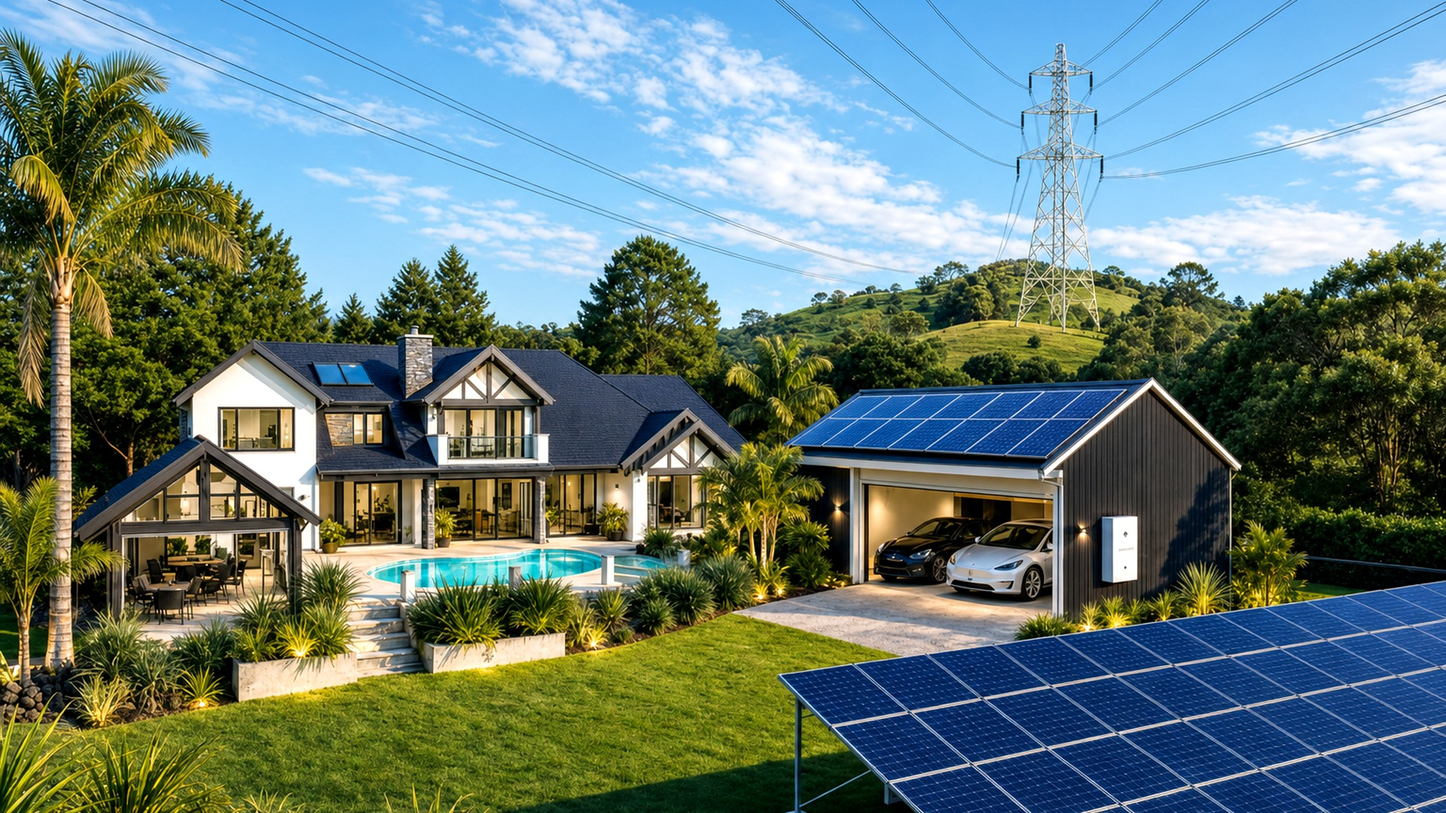
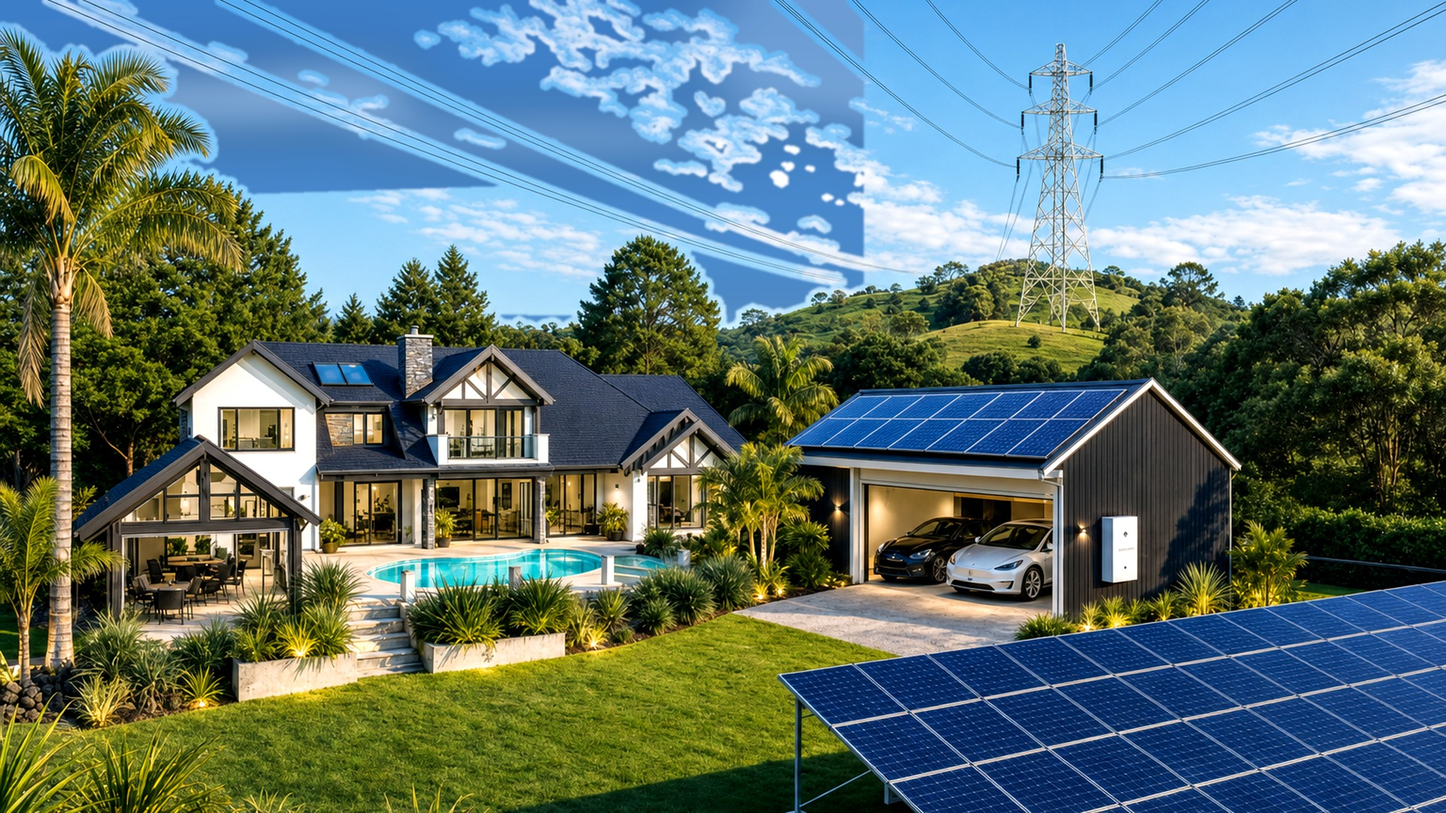
Fix solar dashboard v14 sky replace and restore weather-driven backgrounds.
The v14 keep-mask used a scalar boolean that wiped all sky pixels; restore weather/sun background selection, rebuild distinct weather JPGs, rename Contact card, align docs with locked master + no flow lines, and deploy with cache-bust 20260602a.

Changed region(s): [[0.0, 0.0, 0.625, 0.3972], [0.3438, 0.3667, 0.4062, 0.3972], [0.2188, 0.4583, 0.25, 0.4889]]

diff --git a/home-assistant/solar-dashboard/scripts/build_v4_backgrounds.py b/home-assistant/solar-dashboard/scripts/build_v4_backgrounds.py
@@ -673,7 +673,7 @@ def _build_sky_keep_mask(master: Image.Image) -> np.ndarray:
 
     for poly in (_HOUSE_ROOF_EXCLUDE, _LEFT_TREES_EXCLUDE):
         keep[_rasterize_polygons_keep(w, h, [poly])] = True
-    keep[h >= _GROUND_EXCLUDE_Y, :] = True
+    keep[_GROUND_EXCLUDE_Y:, :] = True
 
     bx0, by0, bx1, by1 = _V14_PYLON_KEEP_BOX
     keep[by0:by1, bx0:bx1] = True
@@ -687,7 +687,7 @@ def _build_sky_keep_mask(master: Image.Image) -> np.ndarray:
     keep = sky_u8 == 0
     keep[protect] = True
     keep[by0:by1, bx0:bx1] = True
-    keep[h >= _GROUND_EXCLUDE_Y, :] = True
+    keep[_GROUND_EXCLUDE_Y:, :] = True
     for poly in (_HOUSE_ROOF_EXCLUDE, _LEFT_TREES_EXCLUDE):
         keep[_rasterize_polygons_keep(w, h, [poly])] = True
 

diff --git a/home-assistant/solar-dashboard/docs/332-three-mile-bush-build-spec.md b/home-assistant/solar-dashboard/docs/332-three-mile-bush-build-spec.md
@@ -6,7 +6,7 @@
 **Tablet:** Landscape 16:9  
 **Style:** AI architectural render (photoreal archviz, not drone photo)  
 **Retailer:** Contact Energy (Northpower = lines company)  
-**Last updated:** 2026-05-26
+**Last updated:** 2026-06-02
 
 ---
 
@@ -16,10 +16,11 @@
 
 | Rule | Detail |
 |------|--------|
-| **Frozen asset** | `www/solar-dashboard/backgrounds/v5/master-clear.png` and weather variants built from it (`clear.jpg`, etc.) |
-| **Do not change** | No regeneration, re-prompting, colour grading, compositing, pylon paste, ellipse masks, or other edits to the CGI master without your **explicit, subtle** request |
-| **Overlays (on request)** | Lovelace card position/styling and baked flow-line geometry — tunable when you ask; master render does not |
-| **Always OK** | Entity wiring, demo helpers, deploy paths (e.g. `v5/` cache bust) |
+| **Frozen asset** | `www/solar-dashboard/backgrounds/v4/master-clear.png` (locked CGI). Weather JPGs in `backgrounds/v14/` via synthetic sky replace only |
+| **Do not change** | No regeneration, re-prompting, colour grading, compositing, pylon paste, TELEA/inpaint, or flow-line overlays on the master without your **explicit** request |
+| **Sky edits (v14)** | `scripts/build_v4_backgrounds.py --out …/v14` — synthetic gradient + clouds; master keep mask preserves palms, house, pylon |
+| **Overlays (on request)** | Lovelace card position/styling — tunable when you ask; master render does not |
+| **Always OK** | Entity wiring, demo helpers, deploy paths, Lovelace cache-bust (`v14/?v=…`) |
 | **Agents / contractors** | Treat the master CGI as read-only; do not rebuild baked art unless you ask |
 
 ---
@@ -81,19 +82,17 @@ From the annotated aerial (landscape drone view):
 
 ---
 
-## 4. Energy flow (directional lines)
+## 4. Energy flow (Lovelace cards only)
 
-Lines are **baked into each of the 5 background JPGs** (same geometry, different sky/light):
+**No flow lines baked into background JPGs** (v14 clean master + synthetic sky). Power direction is shown via overlay cards only:
 
-| Colour | From | To | Meaning |
-|--------|------|-----|---------|
-| **Amber / yellow dashed** | Ground PV array | Garage (SigenStor) | Solar production |
-| **Amber dashed** | Garage battery | Main house | Battery discharge to load |
-| **Amber dashed** | Garage battery ← array | (bidirectional segment) | Charging from solar |
-| **White dashed** | Grid / meter direction | Garage or house | Import / export |
-| **Green accent** (optional) | Sigenergy EV charger | Model S / X in garage | EV charging when active |
-
-**Live behaviour (phase 2):** When Sigenergy + HA sensors exist, arrow opacity or pulse can follow power direction via `button-card` / CSS (no need for animated GIF backgrounds).
+| Card | Meaning |
+|------|---------|
+| **Grid use** | Import / export at site |
+| **Solar array** | PV production |
+| **Home use** | House load |
+| **Battery** | SOC / charge / discharge |
+| **Garage** | EV charging (Tessie) |
 
 ---
 
@@ -134,17 +133,17 @@ Store under `/config/www/solar-dashboard/icons/` (repo: `www/solar-dashboard/ico
 
 ---
 
-## 7. Background pipeline (v5 AI render)
+## 7. Background pipeline (v14 synthetic sky)
 
-**Rejected:** v3 drone aerial (neighbours visible, not Serpo-style).
+**Rejected:** v3 drone aerial; v10–v13 TELEA wire removal (smears / paint blobs).
 
-**Approved (LOCKED):** Closer **elevated 3/4 archviz** of property only (inside orange boundary on site map). Reference photos: house (`-2.jpg`), garage (`-14.jpg`, `-15.jpg`). Master: `backgrounds/v5/master-clear.png` (AI-generated daytime CGI — see **Background master (LOCKED)** above).
+**Approved (LOCKED):** Closer **elevated 3/4 archviz** master at `backgrounds/v4/master-clear.png`. Weather JPGs in **`backgrounds/v14/`** — synthetic sky replace with keep mask (palms, house, pylon untouched). **No dashed flow lines** on backgrounds.
 
 ### Steps
 
 1. **Do not regenerate the master** without explicit user art direction (see **Background master (LOCKED)**).
-2. Rebuild weather JPGs only if you explicitly request line-geometry changes (`scripts/build_v4_backgrounds.py` → `backgrounds/v5/`).
-3. Dashboard uses `/local/solar-dashboard/backgrounds/v5/*.jpg`.
+2. Rebuild weather JPGs: `python3 scripts/build_v4_backgrounds.py --out www/solar-dashboard/backgrounds/v14`.
+3. Dashboard uses `/local/solar-dashboard/backgrounds/v14/*.jpg?v=…` (cache-bust in Lovelace).
 4. Tune `placement-map.yaml` on tablet once.
 
 **Scene must include:** main house + pool (left), open garage with **Model S + Model X**, **45-panel ground array** (right lawn), Sigenergy battery on garage wall, 3-phase pole (left), no neighbouring properties.

diff --git a/home-assistant/solar-dashboard/docs/power-flow-map.md b/home-assistant/solar-dashboard/docs/power-flow-map.md
@@ -1,18 +1,17 @@
 # Power flow map — 332 Three Mile Bush Road dashboard
 
-> **Baked art frozen:** `backgrounds/v5/master-clear.png` and the five weather JPGs are approved and locked — no CGI regeneration or compositing changes without explicit user request. **Flow lines** (waypoints in `build_v4_backgrounds.py`) and **Lovelace overlays** are tunable **only on user request** (see `docs/332-three-mile-bush-build-spec.md` § *Background master (LOCKED)*).
+> **Baked art frozen:** `backgrounds/v4/master-clear.png` is the locked CGI master. **Do not regenerate** it. Weather JPGs live in `backgrounds/v14/` and are built by **synthetic sky replace only** (`scripts/build_v4_backgrounds.py --out …/v14`) — no TELEA/inpaint on the master, no flow-line overlays on backgrounds. Lovelace card positions are tunable on user request (see `docs/332-three-mile-bush-build-spec.md` § *Background master (LOCKED)*).
 
-Visual layers on `backgrounds/v5/*.jpg` (built by `scripts/build_v4_backgrounds.py`; master unchanged).
+Visual layers: clean CGI property render + Lovelace `button-card` overlays (no dashed energy-flow lines baked into JPGs).
 
-**Style:** Bright daytime CGI master; smooth dashed Bézier curves (white grid, amber solar, green EV). Grid lines anchor to the **master lattice tower** on the right hill (no pasted sprite / ellipse mask).
+**Style:** Bright daytime CGI master; grid pylon on the right hill stays 100% master pixels. Sky band uses v14 synthetic gradient + clouds; palm foliage and house silhouettes preserved via keep mask.
 
 ## Layer 1 — Transmission (Northpower grid)
 
 | Visual | Meaning |
 |--------|---------|
-| **Solid dark lines** from left/right horizon | 11 kV / grid transmission into the district |
-| **Lattice tower on hill** (behind garage, distant) | Grid connection point |
-| **White dashed** tower → garage inverter | Import / export at site |
+| **Lattice tower on hill** (behind garage, distant) | Grid connection point (master CGI — never edited) |
+| *(No baked flow lines)* | Import/export shown via **Grid use** card only |
 
 | Card | Entity (live, TBD) | Demo entity |
 |------|-------------------|-------------|
@@ -21,22 +20,12 @@ Visual layers on `backgrounds/v5/*.jpg` (built by `scripts/build_v4_backgrounds.
 
 ## Layer 2 — Solar (SunPower ground array)
 
-| Visual | Meaning |
-|--------|---------|
-| **Amber dashed** along lawn → inverter | PV production |
-
 | Card | Entity (live) | Demo |
 |------|---------------|------|
 | Solar array | `TBD.sigenergy_pv_power` | `sensor.solar_ground_power` |
 | PV total / today / month / year | Sigenergy energy counters | `sensor.solar_*` |
 
 ## Layer 3 — Site hub (Sigenergy SigenStor)
-
-| Visual | Meaning |
-|--------|---------|
-| **Inverter** on garage exterior wall | 30 kW controller |
-| **Amber** inverter ↔ house | Home load / battery discharge |
-| **Amber** inverter ↔ battery cabinet | SOC / charge |
 
 | Card | Entity (live) | Demo |
 |------|---------------|------|
@@ -45,21 +34,18 @@ Visual layers on `backgrounds/v5/*.jpg` (built by `scripts/build_v4_backgrounds.
 
 ## Layer 4 — EV (Sigenergy DC charger + Tessie)
 
-| Visual | Meaning |
-|--------|---------|
-| **Green dashed** inverter → charger → garage | EV charging |
-
 | Card | Entity (live) | Demo |
 |------|---------------|------|
 | Garage Model S | Tessie | `sensor.garage_model_s_*` |
 | Garage Model X | Tessie when added | `sensor.garage_model_x_*` |
 
-## Tuning line geometry (user request only)
+## Rebuilding backgrounds (agent / maintainer)
 
-**Locked by default** — see note at top. When the user asks to adjust curves, edit waypoint lists in `scripts/build_v4_backgrounds.py` (`SITE`, `ROUTES`, `HV_LINES`, `CARD_STUBS`), then:
+**Locked by default** — see note at top. When the user asks to adjust sky or weather grades:
 
 ```bash
-python3 /Users/topexnative/Projects/unraid-array-design/home-assistant/solar-dashboard/scripts/build_v4_backgrounds.py
+python3 /Users/topexnative/Projects/unraid-array-design/home-assistant/solar-dashboard/scripts/build_v4_backgrounds.py \
+  --out /Users/topexnative/Projects/unraid-array-design/home-assistant/solar-dashboard/www/solar-dashboard/backgrounds/v14
 ```
 
-Redeploy with `scripts/deploy_to_ha.py --skip-restart`.
+Bump the Lovelace cache-bust query (`?v=…`) in `lovelace/dashboards/solar_dashboard.yaml`, then redeploy with `scripts/deploy_to_ha.py --skip-restart`.
